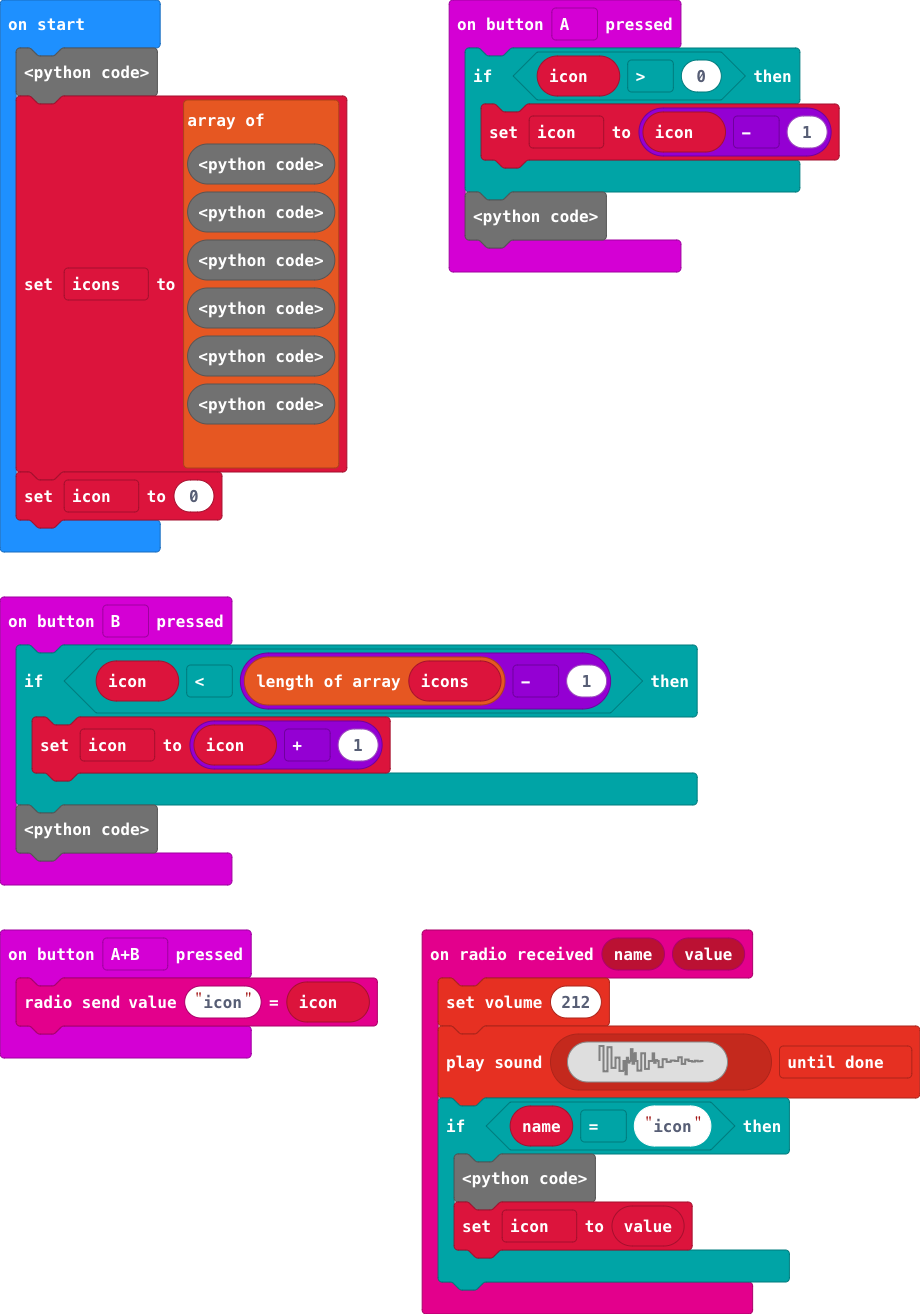
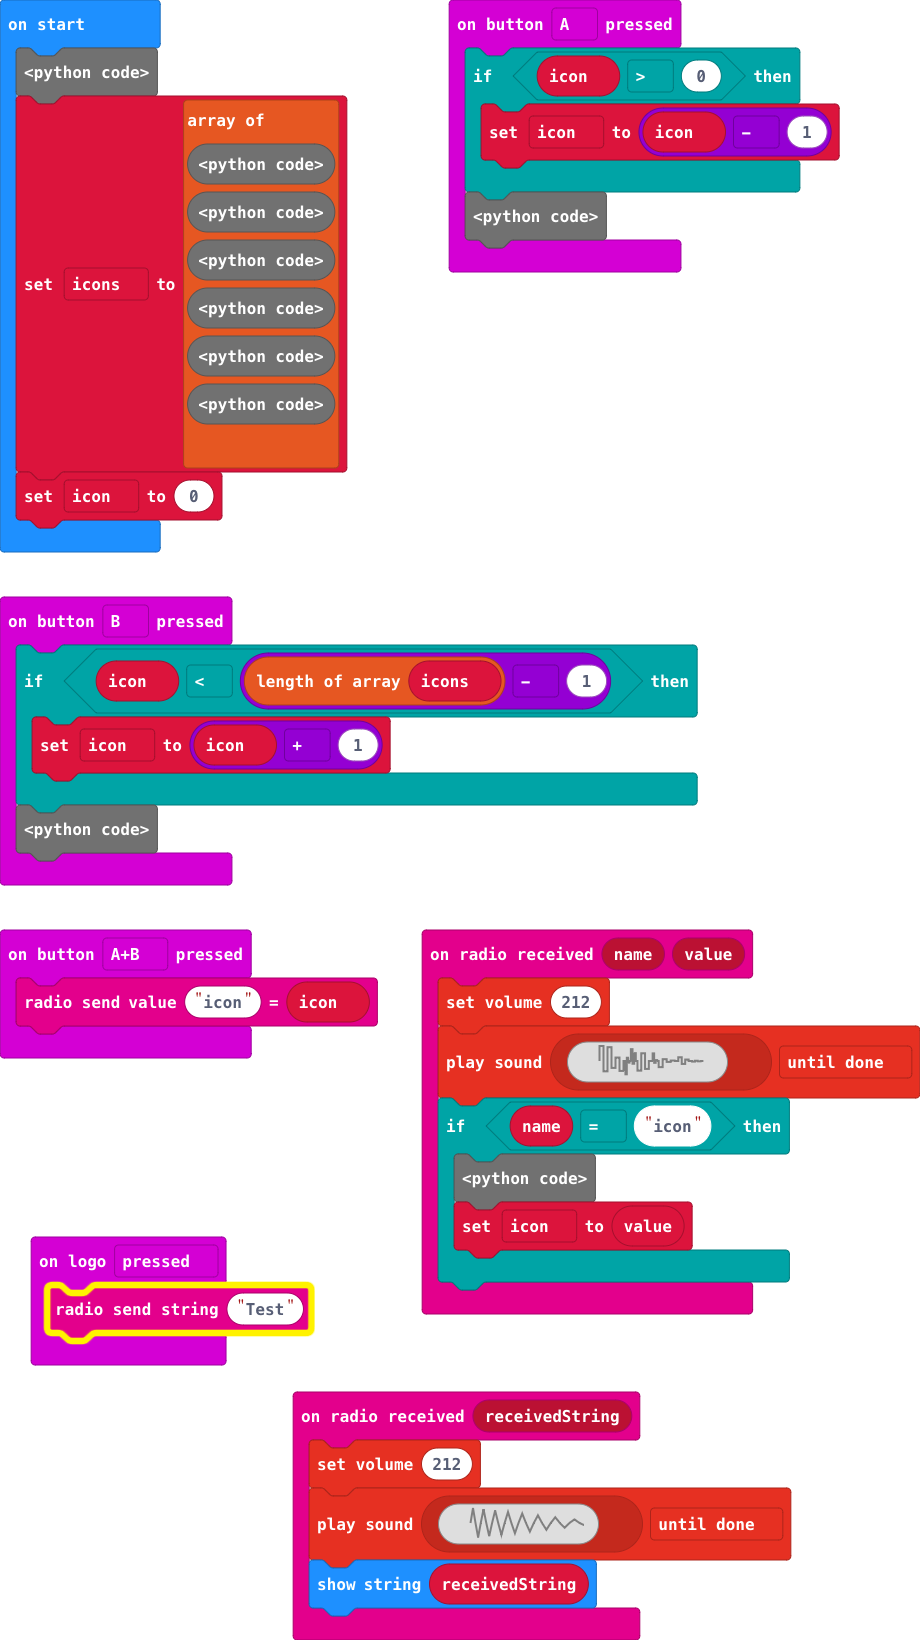
Added english chat

diff --git a/main.ts b/main.ts
@@ -7,6 +7,11 @@ input.onButtonPressed(Button.A, function () {
 input.onButtonPressed(Button.AB, function () {
     radio.sendValue("icon", icon)
 })
+radio.onReceivedString(function (receivedString) {
+    music.setVolume(212)
+    music.playSoundEffect(music.createSoundEffect(WaveShape.Triangle, 5000, 3767, 255, 20, 500, SoundExpressionEffect.Vibrato, InterpolationCurve.Linear), SoundExpressionPlayMode.UntilDone)
+    basic.showString(receivedString)
+})
 input.onButtonPressed(Button.B, function () {
     if (icon < icons.length - 1) {
         icon = icon + 1
@@ -20,6 +25,9 @@ radio.onReceivedValue(function (name, value) {
         basic.showIcon(icons[value])
 icon = value
     }
+})
+input.onLogoEvent(TouchButtonEvent.Pressed, function () {
+    radio.sendString("Test")
 })
 let icons: number[] = []
 let icon = 0
